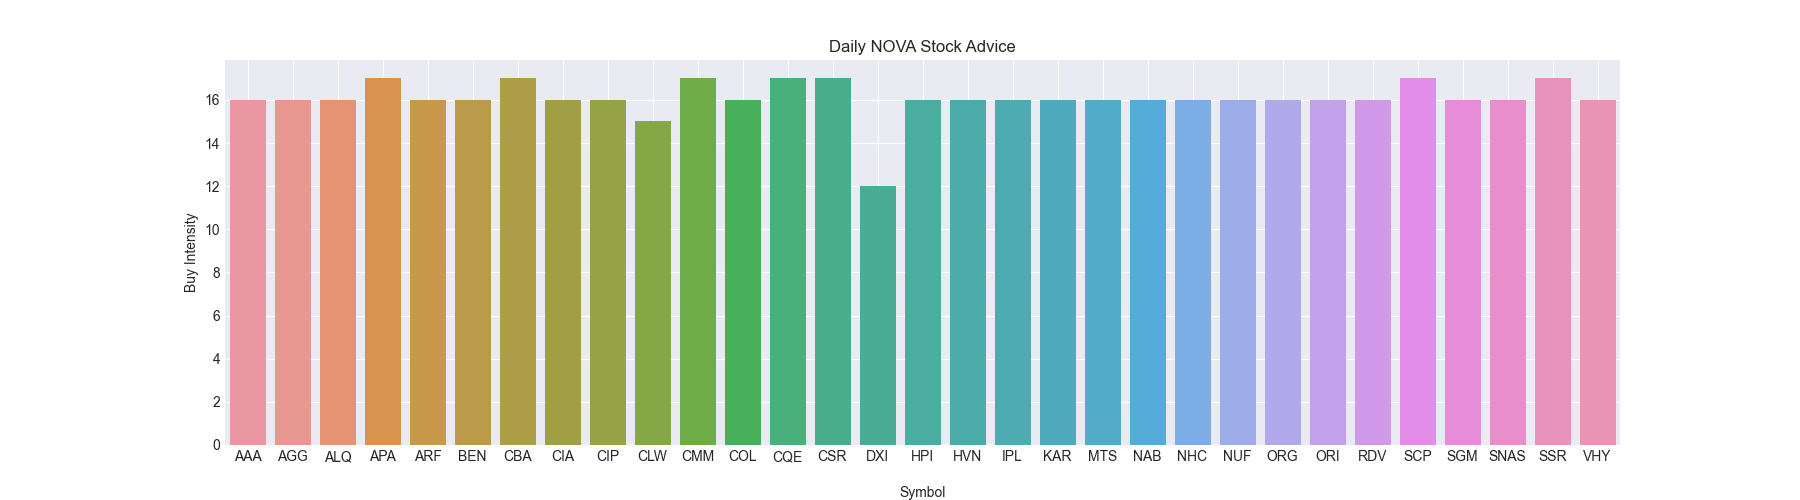
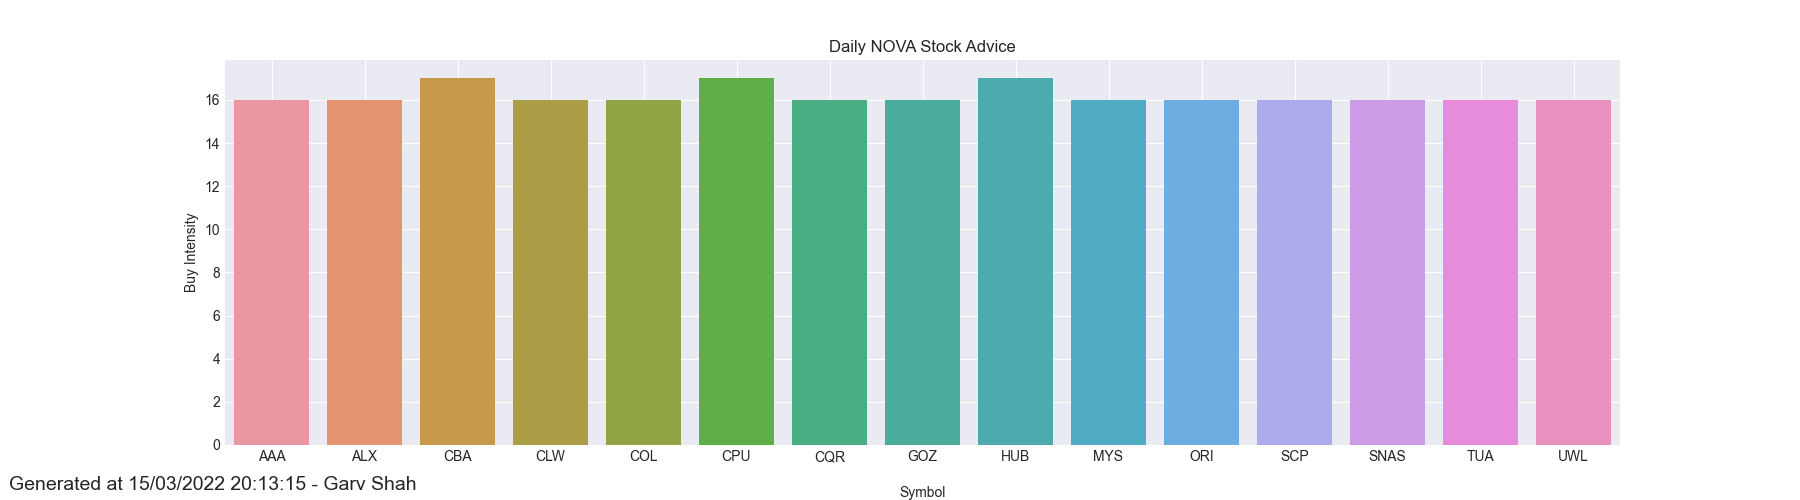
added timestamp to bottom

Changed region(s): [[0.0, 0.15, 0.9022, 0.99]]

diff --git a/asx.py b/asx.py
@@ -1,9 +1,10 @@
-from time import sleep, time
-
-from tradingview_ta import TA_Handler, Interval, Exchange
 import csv
+from datetime import datetime
+
 import matplotlib.pyplot as plt
 import seaborn as sns
+from matplotlib.offsetbox import AnchoredText
+from tradingview_ta import TA_Handler, Interval
 
 symbol_list = [
     "360",
@@ -358,49 +359,43 @@ symbol_list = [
     "ZIM"
 ]
 
+output_list = []
+output_dict = {}
 
-def main():
-    output_list = []
-    output_dict = {}
+for symbol in symbol_list:
+    print(symbol)
+    output = TA_Handler(
+        symbol=symbol,
+        screener="australia",
+        exchange="ASX",
+        interval=Interval.INTERVAL_1_DAY
+    )
 
-    for symbol in symbol_list:
-        print(symbol)
-        output = TA_Handler(
-            symbol=symbol,
-            screener="australia",
-            exchange="ASX",
-            interval=Interval.INTERVAL_1_DAY
-        )
+    summary = output.get_analysis().summary
 
-        summary = output.get_analysis().summary
+    output_list.append([symbol, summary])
+    if summary['RECOMMENDATION'] == 'STRONG_BUY':
+        output_dict[symbol] = summary
 
-        output_list.append([symbol, summary])
-        if summary['RECOMMENDATION'] == 'STRONG_BUY':
-            output_dict[symbol] = summary
+print(output_dict)
 
-    print(output_dict)
+with open("./data/ASX_Stock_Game_Data.csv", 'w+', newline='') as csvfile:
+    fieldnames = list(output_dict.keys())
+    writer = csv.DictWriter(csvfile, fieldnames=fieldnames)
+    writer.writeheader()
+    writer.writerow(output_dict)
+    csvfile.close()
 
-    with open("./data/ASX_Stock_Game_Data.csv", 'w+', newline='') as csvfile:
-        fieldnames = list(output_dict.keys())
-        writer = csv.DictWriter(csvfile, fieldnames=fieldnames)
-        writer.writeheader()
-        writer.writerow(output_dict)
-        csvfile.close()
-
-    keys = list(output_dict.keys())
-    vals = [float(output_dict[k]['BUY']) for k in keys]
-    plt.style.use('seaborn-dark')
-    plt.figure(figsize=(18, 5))
-    sns.barplot(x=keys, y=vals)
-    plt.xlabel('\nSymbol')
-    plt.ylabel('Buy Intensity')
-    plt.title('Daily NOVA Stock Advice')
-    plt.grid()
-    plt.savefig('./NOVA_Stock_Advice.png')
-
-    sleep(3600 - time() % 3600)
-    main()
-
-
-if __name__ == "__main__":
-    main()
+keys = list(output_dict.keys())
+vals = [float(output_dict[k]['BUY']) for k in keys]
+plt.style.use('seaborn-dark')
+plt.figure(figsize=(18, 5))
+ax = sns.barplot(x=keys, y=vals)
+now = datetime.now()
+time_string = now.strftime("%d/%m/%Y %H:%M:%S")
+plt.text(0.005, 0.02, f"Generated at {time_string} - Garv Shah", fontsize=14, transform=plt.gcf().transFigure)
+plt.xlabel('\nSymbol')
+plt.ylabel('Buy Intensity')
+plt.title('Daily NOVA Stock Advice')
+plt.grid()
+plt.savefig('./NOVA_Stock_Advice.png')
